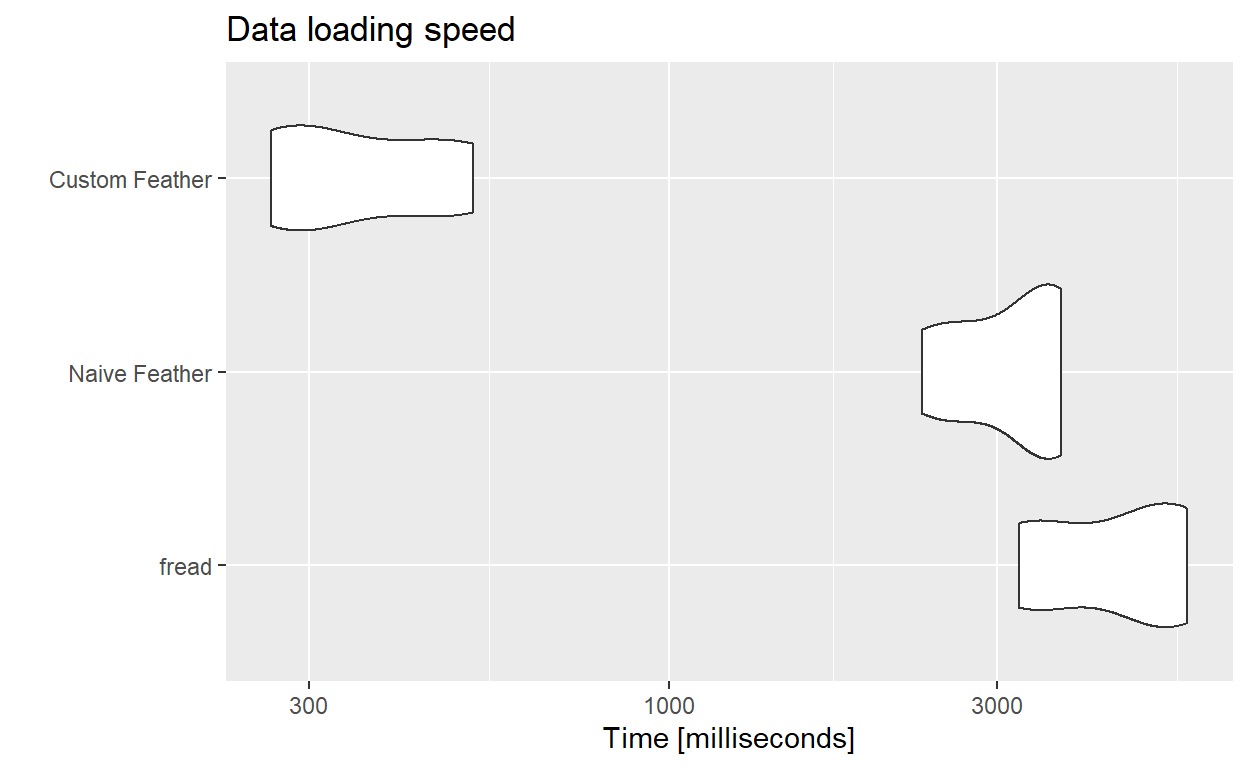
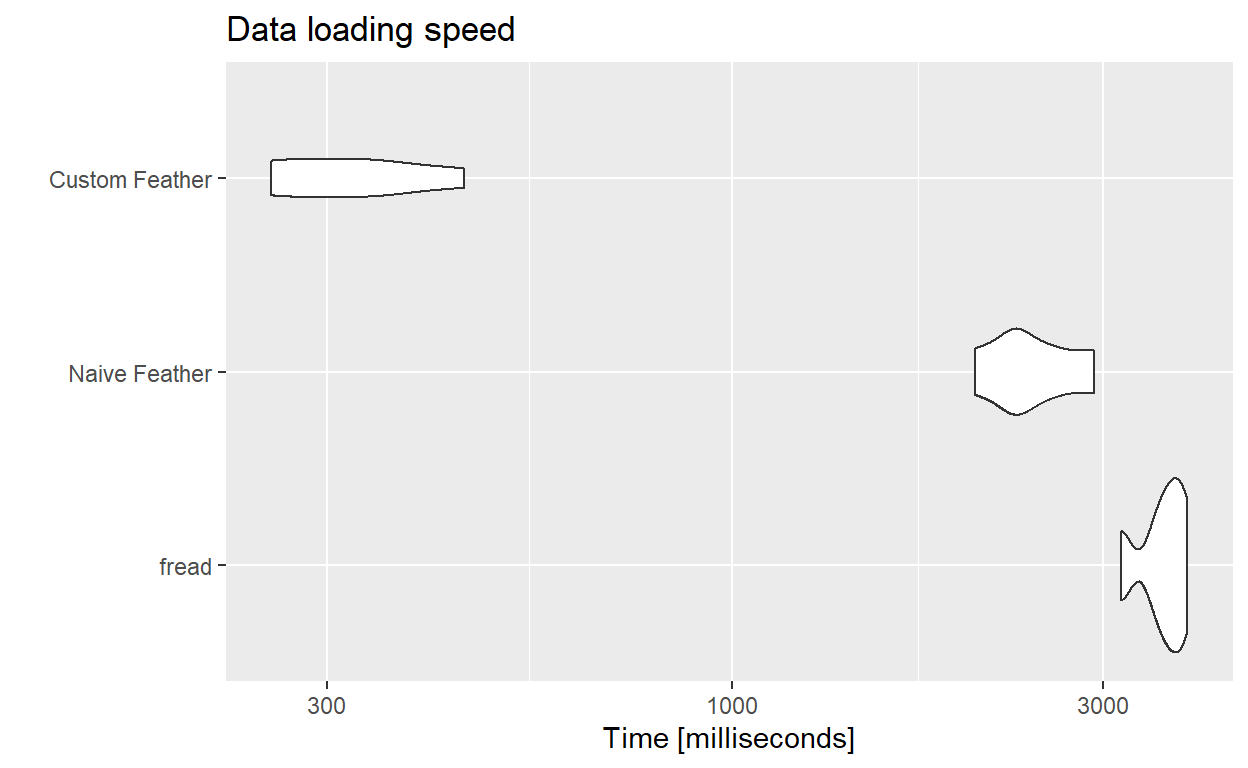
removal of Distill remarks per request

diff --git a/docs/posts/2020-08-28-fast-data-loading/index.html b/docs/posts/2020-08-28-fast-data-loading/index.html
@@ -1360,7 +1360,7 @@ color: white;
 <!--radix_placeholder_front_matter-->
 
 <script id="distill-front-matter" type="text/json">
-{"title":"Fast Data Loading","description":"Loading your nfl data at 10x speed!","authors":[{"author":"Analytics Darkweb","authorURL":"https://twitter.com/footballdaRkweb","affiliation":"&nbsp;","affiliationURL":"#"}],"publishedDate":"2020-08-28T00:00:00.000+00:00","citationText":"Darkweb, 2020"}
+{"title":"Fast Data Loading","description":"Loading your nfl data at 10x speed!","authors":[{"author":"Analytics Darkweb","authorURL":"https://twitter.com/footballdaRkweb","affiliation":"&nbsp;","affiliationURL":"#"}],"publishedDate":"2020-08-28T00:00:00.000-07:00","citationText":"Darkweb, 2020"}
 </script>
 
 <!--/radix_placeholder_front_matter-->
@@ -1428,7 +1428,7 @@ system.time(
 )</code></pre>
 <pre><code>
    user  system elapsed 
-  51.81   15.65   75.05 </code></pre>
+  41.53   13.61   69.14 </code></pre>
 </div>
 <p>Your results may vary here, but for me? This process usually takes 30-45 seconds. Now, if you’re easily distracted like I am that’s just enough waiting around to be dangerous!</p>
 <p>Of course the alternative is to simply read in the data from a local copy, which is of course faster. We’ll use data.table’s fread here as it’s much faster than both the base read.csv and tidyverse’s read_csv.</p>
@@ -1437,7 +1437,7 @@ system.time(
 system.time(pbp &lt;- data.table::fread(&quot;D:/Placeholder/nflfastR.csv&quot;))</code></pre>
 <pre><code>
    user  system elapsed 
-   7.10    0.43    2.72 </code></pre>
+   7.38    0.53    2.98 </code></pre>
 </div>
 <p>But what if we could do better? Or, what if we needed to load in much MUCH larger files? Perhaps gigabytes each? And what if we wanted to find a way to do some filtering as well?</p>
 <p>Enter the arrow package.</p>
@@ -1452,7 +1452,7 @@ ds &lt;- open_dataset(&quot;D:/Placeholder/New/&quot;, format = &quot;feather&qu
 system.time(open_dataset(&quot;D:/Placeholder/New/&quot;, format = &quot;feather&quot;) %&gt;% collect())</code></pre>
 <pre><code>
    user  system elapsed 
-   2.05    1.73    2.33 </code></pre>
+   2.14    3.04    2.14 </code></pre>
 </div>
 <p>We can see that arrow loads our dataset pretty fast. A little faster than fread, but what if we could make it better?</p>
 <p>Lets say I wanted to partitian the data by both season and play type. We can do this by converting our feather file to a dataset. We should choose ways to split the data that make the most sense given our usecase. For football, it may make sense to break things down by season and playtype since those are common splits to look at.</p>
@@ -1475,7 +1475,7 @@ system.time(
 )</code></pre>
 <pre><code>
    user  system elapsed 
-   8.08    0.80    2.95 </code></pre>
+   7.63    0.50    3.13 </code></pre>
 </div>
 <p>Notice below that I am using the collect() call between group_by and summarise!</p>
 <div class="layout-chunk" data-layout="l-body">
@@ -1489,7 +1489,7 @@ system.time(
 )</code></pre>
 <pre><code>
    user  system elapsed 
-   0.28    0.05    0.28 </code></pre>
+   0.25    0.05    0.29 </code></pre>
 </div>
 <p>There you have it, to read in, filter, group, and summarise from data.table’s fread takes us significantly longer to read in than using arrow’s feather data type!</p>
 <p>We’ve gone from loading online in about 60 seconds, to fread in 3-5 seconds, to feather around 2 seconds, but by saving our dataset in a novel way we can reduce our look ups to fractions of a second.</p>
@@ -1521,14 +1521,13 @@ mbm &lt;-
   times = 5L
   )</code></pre>
 </div>
+<p>Here is a plot showing the loading times for various methods.</p>
 <div class="layout-chunk" data-layout="l-body">
 <pre class="r"><code>
 autoplot(mbm) + 
   labs(title = &quot;Data loading speed&quot;)</code></pre>
 <p><img src="fast-data-loading_files/figure-html5/unnamed-chunk-9-1.png" width="624" data-distill-preview=1 /></p>
 </div>
-<p>Distill is a publication format for scientific and technical writing, native to the web.</p>
-<p>Learn more about using Distill at <a href="https://rstudio.github.io/distill" class="uri">https://rstudio.github.io/distill</a>.</p>
 <!--radix_placeholder_article_footer-->
 <div class="article-footer">
   <p class="social_footer">
@@ -1568,7 +1567,7 @@ autoplot(mbm) +
 <!--/radix_placeholder_appendices-->
 <!--radix_placeholder_navigation_after_body-->
 <div class="distill-site-nav distill-site-footer">
-  <p>©2020 - Website creator Sebastian Carl (Twitter: <a href="https://twitter.com/mrcaseb">@mrcaseb</a>)</p>
+  <p>Â©2020 - Website creator Sebastian Carl (Twitter: <a href="https://twitter.com/mrcaseb">@mrcaseb</a>)</p>
 </div>
 <!--/radix_placeholder_navigation_after_body-->
 

diff --git a/_posts/2020-08-28-fast-data-loading/fast-data-loading.html b/_posts/2020-08-28-fast-data-loading/fast-data-loading.html
@@ -998,7 +998,7 @@ system.time(
 )</code></pre>
 <pre><code>
    user  system elapsed 
-  51.81   15.65   75.05 </code></pre>
+  41.53   13.61   69.14 </code></pre>
 </div>
 <p>Your results may vary here, but for me? This process usually takes 30-45 seconds. Now, if you’re easily distracted like I am that’s just enough waiting around to be dangerous!</p>
 <p>Of course the alternative is to simply read in the data from a local copy, which is of course faster. We’ll use data.table’s fread here as it’s much faster than both the base read.csv and tidyverse’s read_csv.</p>
@@ -1007,7 +1007,7 @@ system.time(
 system.time(pbp &lt;- data.table::fread(&quot;D:/Placeholder/nflfastR.csv&quot;))</code></pre>
 <pre><code>
    user  system elapsed 
-   7.10    0.43    2.72 </code></pre>
+   7.38    0.53    2.98 </code></pre>
 </div>
 <p>But what if we could do better? Or, what if we needed to load in much MUCH larger files? Perhaps gigabytes each? And what if we wanted to find a way to do some filtering as well?</p>
 <p>Enter the arrow package.</p>
@@ -1022,7 +1022,7 @@ ds &lt;- open_dataset(&quot;D:/Placeholder/New/&quot;, format = &quot;feather&qu
 system.time(open_dataset(&quot;D:/Placeholder/New/&quot;, format = &quot;feather&quot;) %&gt;% collect())</code></pre>
 <pre><code>
    user  system elapsed 
-   2.05    1.73    2.33 </code></pre>
+   2.14    3.04    2.14 </code></pre>
 </div>
 <p>We can see that arrow loads our dataset pretty fast. A little faster than fread, but what if we could make it better?</p>
 <p>Lets say I wanted to partitian the data by both season and play type. We can do this by converting our feather file to a dataset. We should choose ways to split the data that make the most sense given our usecase. For football, it may make sense to break things down by season and playtype since those are common splits to look at.</p>
@@ -1045,7 +1045,7 @@ system.time(
 )</code></pre>
 <pre><code>
    user  system elapsed 
-   8.08    0.80    2.95 </code></pre>
+   7.63    0.50    3.13 </code></pre>
 </div>
 <p>Notice below that I am using the collect() call between group_by and summarise!</p>
 <div class="layout-chunk" data-layout="l-body">
@@ -1059,7 +1059,7 @@ system.time(
 )</code></pre>
 <pre><code>
    user  system elapsed 
-   0.28    0.05    0.28 </code></pre>
+   0.25    0.05    0.29 </code></pre>
 </div>
 <p>There you have it, to read in, filter, group, and summarise from data.table’s fread takes us significantly longer to read in than using arrow’s feather data type!</p>
 <p>We’ve gone from loading online in about 60 seconds, to fread in 3-5 seconds, to feather around 2 seconds, but by saving our dataset in a novel way we can reduce our look ups to fractions of a second.</p>
@@ -1091,14 +1091,13 @@ mbm &lt;-
   times = 5L
   )</code></pre>
 </div>
+<p>Here is a plot showing the loading times for various methods.</p>
 <div class="layout-chunk" data-layout="l-body">
 <pre class="r"><code>
 autoplot(mbm) + 
   labs(title = &quot;Data loading speed&quot;)</code></pre>
 <p><img src="fast-data-loading_files/figure-html5/unnamed-chunk-9-1.png" width="624" data-distill-preview=1 /></p>
 </div>
-<p>Distill is a publication format for scientific and technical writing, native to the web.</p>
-<p>Learn more about using Distill at <a href="https://rstudio.github.io/distill" class="uri">https://rstudio.github.io/distill</a>.</p>
 <!--radix_placeholder_article_footer-->
 <!--/radix_placeholder_article_footer-->
 </div>
